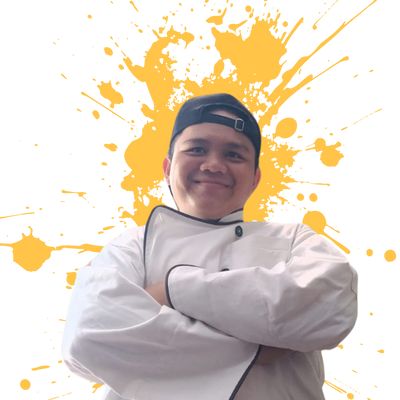
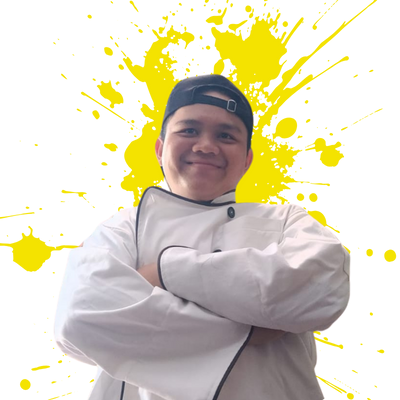
change1

diff --git a/js/custom.js b/js/custom.js
@@ -31,12 +31,21 @@ $(".owl-carousel").owlCarousel({
     }
 });
 
-/** google_map js **/
+// Ubah foto secara Oto
+const images = [
+    "images/PP2.png",
+    "images/PP3.png",
+    "images/PP4.png"
+];
 
-function myMap() {
-    var mapProp = {
-        center: new google.maps.LatLng(40.712775, -74.005973),
-        zoom: 18,
-    };
-    var map = new google.maps.Map(document.getElementById("googleMap"), mapProp);
+let currentIndex = 0; // Indeks gambar saat ini
+const imageElement = document.getElementById("slider-image"); // Ambil elemen gambar
+
+// Fungsi untuk mengubah gambar
+function changeImage() {
+    currentIndex = (currentIndex + 1) % images.length; // Update indeks
+    imageElement.src = images[currentIndex]; // Set sumber gambar
 }
+
+// Jalankan fungsi changeImage setiap 3 detik (3000 ms)
+setInterval(changeImage, 3000);

diff --git a/index.html b/index.html
@@ -86,7 +86,7 @@
                     </div>
                     <div class="col-md-6">
                         <div class="img-box">
-                            <img src="images/PP2.png" alt="">
+                            <img id="slider-image" src="images/PP3.png" alt="">
                         </div>
                     </div>
                 </div>
